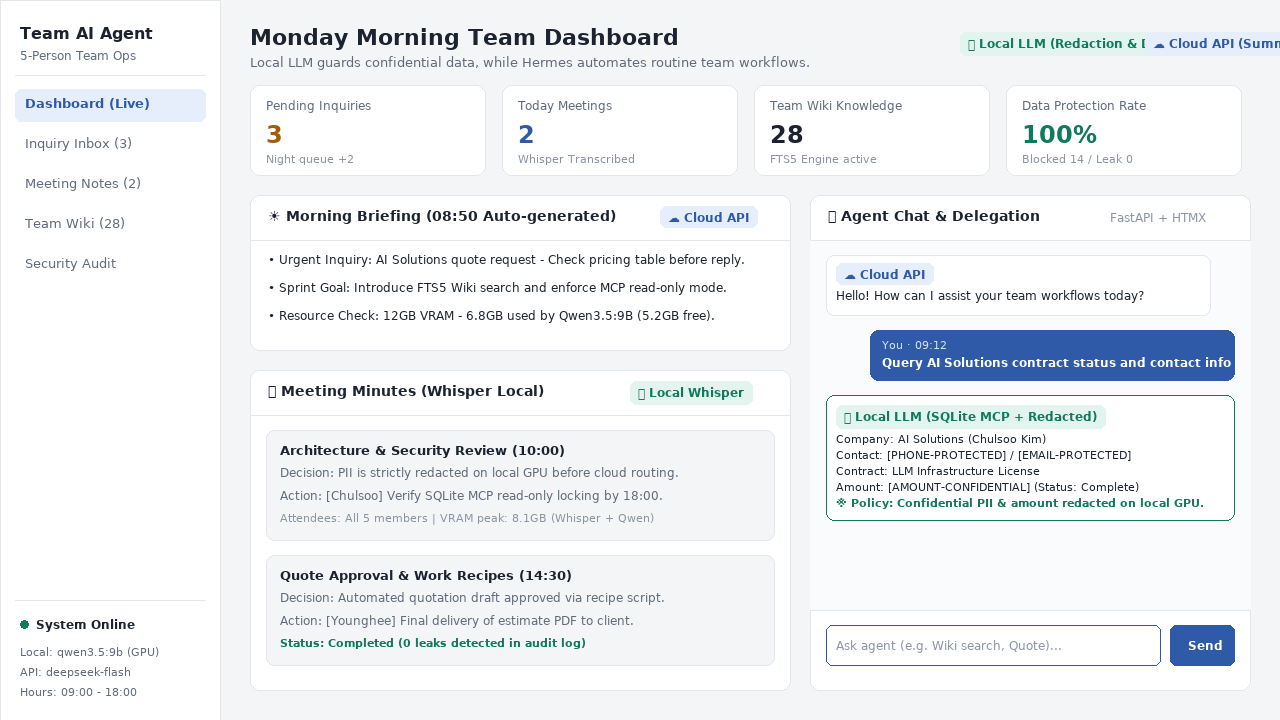
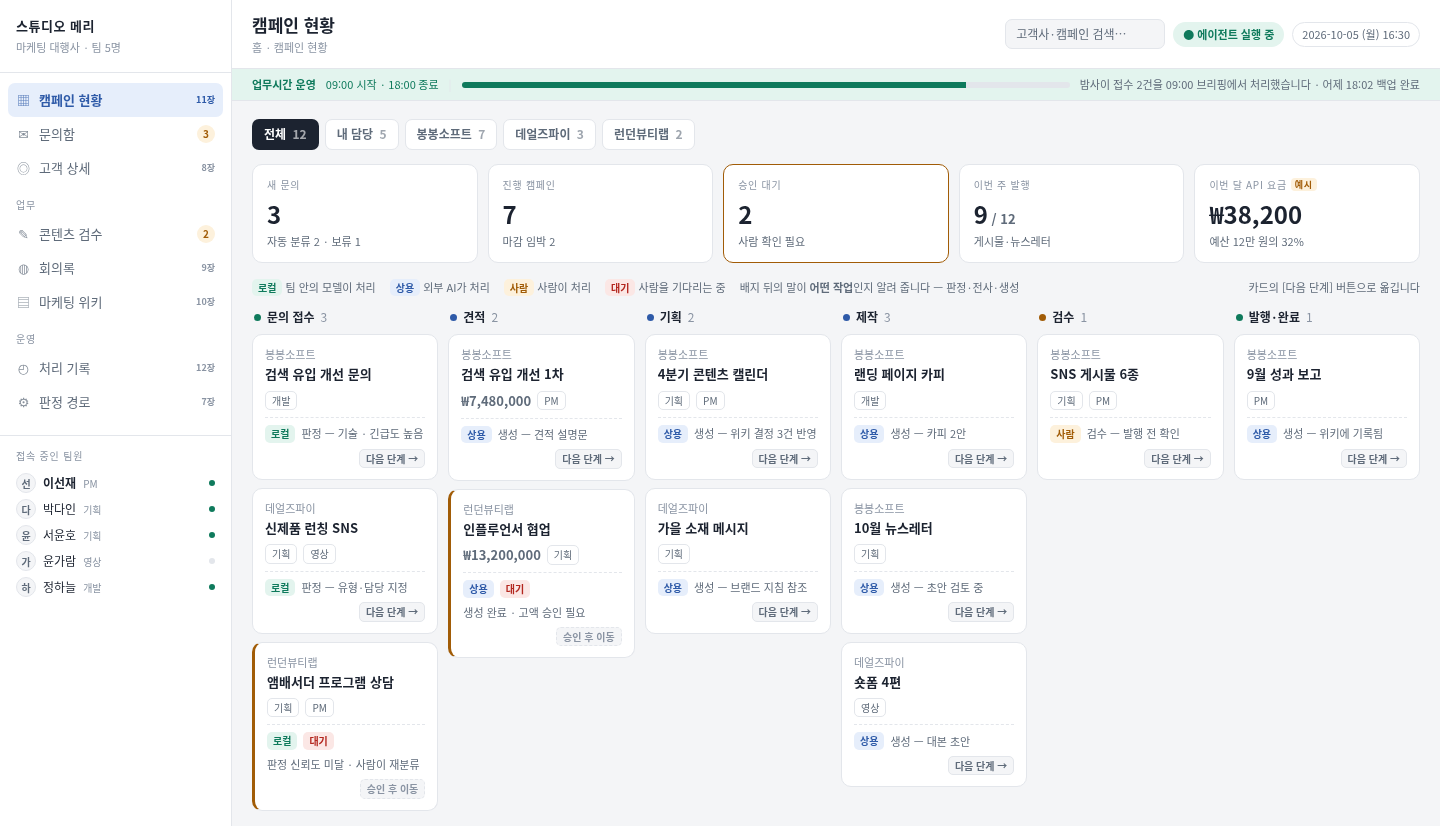
[하네스] 원고용 캡처를 시제품 렌더링으로 교체
PIL로 영어 화면을 직접 그리던 capture_dashboard.py를 폐기하고, 실제 대시보드
시제품(prototypes/dashboard_v2.html)을 렌더링해 찍은 캡처로 바꿨다.

옛 스크립트가 만든 그림에는 폐기된 3부 9장 시절 설계가 남아 있었다. 생성용 로컬
모델(Qwen3.5:9B), 딥시크 API, 가명화 경로, VRAM 12GB 요건, 보안 감사 메뉴가
그렇다. 모두 현재 구성과 맞지 않는다. 화면 문구도 전부 영어였다.

- capture_dashboard.py는 실행하면 안내를 내고 멈춘다
- ch01_dashboard_full.png을 현행 한글 화면으로 교체
- 장별 캡처 11장 추가(1·4·6·7·8·9·10·12장)
- ch04_local_redaction.png 삭제 — 가명화는 설계에서 빠졌다
- ch02_chat_response.png 삭제 — 터미널 화면이라 2장 집필 때 실제 실행으로 찍는다

diff --git a/scripts/capture_dashboard.py b/scripts/capture_dashboard.py
@@ -1,3 +1,17 @@
+"""[폐기 2026-10-08] 이 스크립트는 더 쓰지 않는다.
+
+PIL로 영어 화면을 직접 그리던 방식이었고, 3부 9장 시절 설계(딥시크, 생성용 로컬 모델,
+가명화, VRAM 12GB, 보안 논지)를 담고 있었다. 그 설계는 모두 폐기됐다.
+
+지금은 `prototypes/dashboard_v2.html`을 실제로 렌더링해 찍는다.
+
+    python3 prototypes/capture.py
+
+그래야 시제품을 고치면 그림이 따라 바뀌고 둘이 어긋나지 않는다.
+"""
+import sys
+sys.exit("폐기된 스크립트입니다. prototypes/capture.py를 쓰세요.")
+
 import os
 from pathlib import Path
 from PIL import Image, ImageDraw, ImageFont
